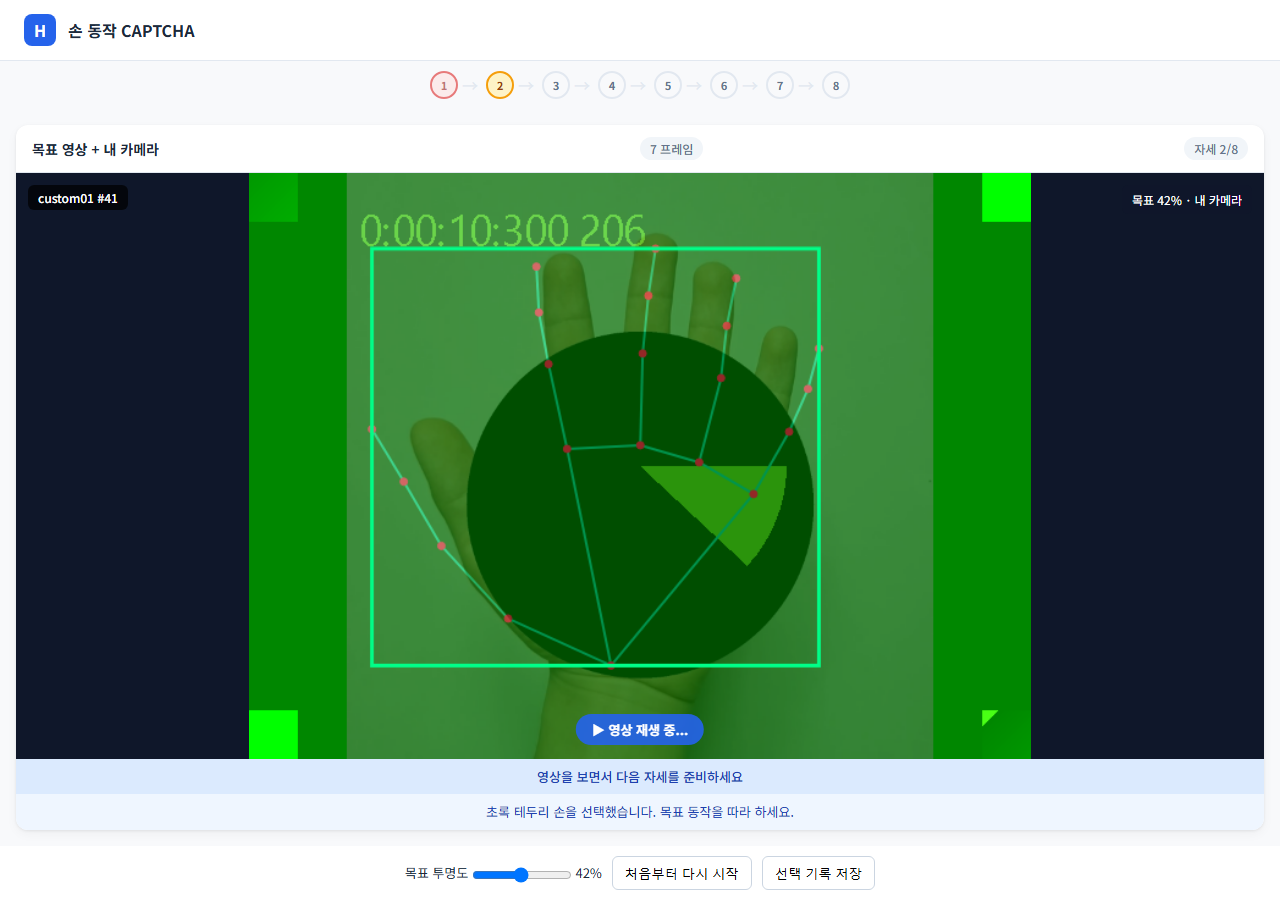
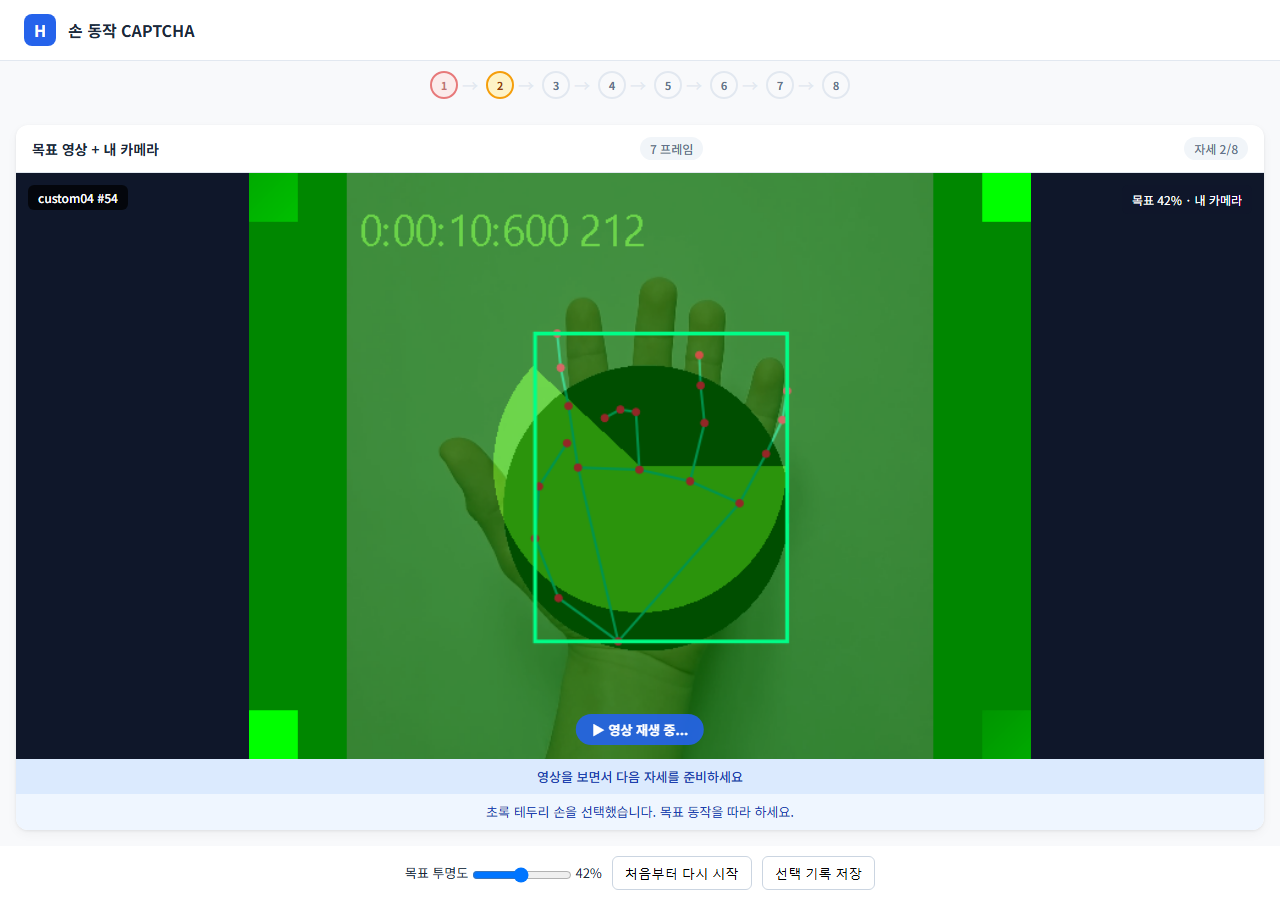
Keep masked target visible and automatically restart after hand absence

diff --git a/experiments/prod_usability/app.js b/experiments/prod_usability/app.js
@@ -1,8 +1,9 @@
 'use strict';
 let runInvalidated=false,runFinished=false,saveableResult=null;
+let attemptEpoch=0,restartNoticeUntil=0;
 const selectionEvents=[];
 const selector=new UsabilitySelection.Selector();
-const nativeResults=onRes,nativeStart=startRealChallenge,nativeResult=showResult;
+const nativeResults=onRes,nativeStart=startRealChallenge,nativeResult=showResult,nativeKeyframe=showKeyframeImage;
 const cameraArea=document.querySelector('.camera-area');
 const panel=cameraArea.closest('.trial-panel');
 panel.querySelector('.panel-title').textContent='목표 영상 + 내 카메라';
@@ -30,10 +31,26 @@ function clearAttempt(){
 }
 function invalidateAttempt(reason){
   if(runInvalidated||runFinished)return;
+  if(reason==='tracking_timeout'||reason==='ambiguous_crossing'){restartForHand(reason);return;}
   recordSelection(reason);runInvalidated=true;clearAttempt();phase='invalidated';
   if(animId)cancelAnimationFrame(animId);if(camStream)camStream.getTracks().forEach(t=>t.stop());
   hint.textContent='선택한 손을 잃었거나 구분하기 어렵습니다. 현재 시도를 폐기했습니다. 처음부터 다시 시작해 주세요.';
   setS('waiting','선택 해제 · 이전 관문과 기록 초기화 완료');updateMatchIndicator('waiting','처음부터 다시 시작해 주세요');
+}
+function restartForHand(reason){
+  recordSelection(reason);attemptEpoch++;
+  clearAttempt();selector.reset();displayedHand=null;previousReason=null;lastCallback=null;
+  saveableResult=null;saveButton.disabled=true;sessionStart=performance.now();phase='detecting_hand';
+  targetFrame.width=0;targetPending=false;rv.oncanplay=null;rv.removeAttribute('src');rv.load();
+  rv.style.display='none';document.getElementById('kfProgress').innerHTML='';
+  document.getElementById('kfLabel').textContent='손 선택 대기';document.getElementById('kfInfo').textContent='';
+  document.getElementById('frameCounter').textContent='0 프레임';
+  restartNoticeUntil=performance.now()+4000;
+  const notice=reason==='ambiguous_crossing'?'선택한 손을 구분하기 어려워 재시작합니다.':'손이 1.5초 이상 이탈해 재시작합니다.';
+  hint.textContent=notice+' 손 전체를 화면 중앙에 보여 주세요.';
+  setS('waiting',notice+' 손을 보여 주세요.');updateMatchIndicator('waiting','손을 보여 주세요');
+  // Keep the original camera/model loop running; the next packet begins fresh acquisition.
+  paintComposite();
 }
 function showAssetError(error){
   console.error(error);document.getElementById('loadingOverlay').classList.add('hidden');
@@ -51,11 +68,25 @@ function drawContained(source,alpha,mirror){
 }
 let previousReason=null,lastCallback=null;
 const cameraBase=document.createElement('canvas');
+const targetFrame=document.createElement('canvas');
+let targetPending=false,targetExpectedTime=0,targetFrameMirror=false;
+function rememberTarget(){
+  if(rv.readyState<2||rv.seeking||rv.style.display==='none')return;
+  if(targetPending&&Math.abs(rv.currentTime-targetExpectedTime)>.08)return;
+  targetPending=false;
+  if(targetFrame.width!==rv.videoWidth||targetFrame.height!==rv.videoHeight){targetFrame.width=rv.videoWidth;targetFrame.height=rv.videoHeight;}
+  targetFrame.getContext('2d').drawImage(rv,0,0);targetFrameMirror=rv.style.transform==='scaleX(-1)';
+}
+showKeyframeImage=function(index){
+  rememberTarget();targetPending=true;targetExpectedTime=keyframes[index].time;
+  nativeKeyframe(index);
+};
 let displayedHand=null;
 function paintComposite(){
   if(!cameraBase.width||!cameraBase.height)return;
   ctx.clearRect(0,0,cc.width,cc.height);ctx.drawImage(cameraBase,0,0);
-  if(rv.style.display!=='none'&&rv.readyState>=2)drawContained(rv,Number(opacity.value)/100,Boolean(keyframes[kfIdx]?.mirror));
+  rememberTarget();
+  if(targetFrame.width)drawContained(targetFrame,Number(opacity.value)/100,targetFrameMirror);
   if(displayedHand){
     const b=displayedHand.box;const track=camStream?.getVideoTracks()[0],settings=track?.getSettings()||{};
     const front=settings.facingMode==='user'||track?.label.toLowerCase().includes('front');
@@ -83,7 +114,7 @@ onRes=function(result){
   displayedHand=hand;
   if(cameraBase.width!==cc.width||cameraBase.height!==cc.height){cameraBase.width=cc.width;cameraBase.height=cc.height;}
   cameraBase.getContext('2d').drawImage(cc,0,0);
-  hint.textContent=hand?'초록 테두리 손을 선택했습니다. 목표 동작을 따라 하세요.':chosen.reason==='similar_sizes'?'손 하나를 다른 손보다 더 가까이 보여 주세요.':chosen.reason==='missing_or_small'?'선택한 손을 다시 크게 보여 주세요. 누락은 정상 관측으로 사용하지 않습니다.':chosen.state==='stabilizing'?'큰 손을 잠시 안정적으로 유지해 주세요.':'손 전체를 조금 더 가까이 보여 주세요.';
+  if(hand||now>=restartNoticeUntil)hint.textContent=hand?'초록 테두리 손을 선택했습니다. 목표 동작을 따라 하세요.':chosen.reason==='similar_sizes'?'손 하나를 다른 손보다 더 가까이 보여 주세요.':chosen.reason==='missing_or_small'?'선택한 손을 다시 크게 보여 주세요. 1.5초 이상 이탈하면 자동 재시작합니다.':chosen.state==='stabilizing'?'큰 손을 잠시 안정적으로 유지해 주세요.':'손 전체를 조금 더 가까이 보여 주세요.';
   // Render only; inference always receives cv, never this composite.
   paintComposite();
 };

diff --git a/experiments/prod_usability/index.html b/experiments/prod_usability/index.html
@@ -394,6 +394,7 @@ function stopGhostLoop(){
 // to either hand: clips of the opposite hand get mirrored (video display AND
 // landmark data, see getBaseFromLandmarkData) rather than being excluded.
 async function genSequence(){
+    const sequenceEpoch=attemptEpoch;
     const handLabel = selectedHand === 'left' ? 'Left' : 'Right';
     const candidates = poolManifest && poolManifest.clips || [];
     if(candidates.length < 2){
@@ -404,7 +405,7 @@ async function genSequence(){
     // manifest에 있어도 landmarks 파일이 서버에 없는(404) 클립이 있을 수 있다.
     // 고정된 2개를 뽑아 실패 시 그대로 죽는 대신, 셔플된 목록을 순회하며
     // 실제로 로드에 성공한 클립 2개를 채울 때까지 시도한다.
-    keyframes = [];
+    let nextKeyframes = [];
     let usedClips = 0;
     for(const clip of shuffled){
         if(usedClips >= 2) break;
@@ -412,14 +413,17 @@ async function genSequence(){
         let d;
         try{ d = await loadClipLandmarks(clip); }
         catch(e){ console.error(`clip ${clip.clip_id}: landmarks load failed, skipping`, e); continue; }
+        if(sequenceEpoch!==attemptEpoch || runInvalidated)return;
         const {frames: baseLm, origIdx} = getBaseFromLandmarkData(d, mirror);
         if(!baseLm || baseLm.length === 0) continue;
         const info = getInfoFromLandmarkData(d);
         const kfIdxs = findKeyframes(baseLm);
-        for(const fi of kfIdxs) keyframes.push({clip, mirror, frameIdx:fi, time:origIdx[fi]/info.fps, baseLm:baseLm[fi], allBaseLm:baseLm, fps:info.fps, width:info.width, height:info.height});
+        for(const fi of kfIdxs) nextKeyframes.push({clip, mirror, frameIdx:fi, time:origIdx[fi]/info.fps, baseLm:baseLm[fi], allBaseLm:baseLm, fps:info.fps, width:info.width, height:info.height});
         usedClips++;
     }
     if(usedClips < 2) console.error(`Only ${usedClips} usable clips loaded (need 2)`);
+    if(sequenceEpoch!==attemptEpoch || runInvalidated)return;
+    keyframes=nextKeyframes;
     const prog = document.getElementById('kfProgress');
     prog.innerHTML = keyframes.map((_,i)=>{
         const arrow = i<keyframes.length-1 ? '<span class="kf-arrow">→</span>' : '';
@@ -579,6 +583,7 @@ function onFirstKeyframeMatched(){
 }
 
 function beginNextTransition(){
+    const transitionEpoch=attemptEpoch;
     phase = 'recording';
     videoPlaying = false;
     recStart = performance.now();
@@ -614,7 +619,7 @@ function beginNextTransition(){
         // "영상 재생 중..."에서 세션이 영구히 멈추는 것을 막는다.
         const playDeadline = performance.now() + (stopTime - fromKf.time)*1000 + 3000;
         const checkLoop = () => {
-            if(runInvalidated || runFinished) return;
+            if(runInvalidated || runFinished || transitionEpoch!==attemptEpoch) return;
             if(rv.currentTime >= stopTime - 0.05 || rv.error || performance.now() > playDeadline){
                 // 영상을 멈추고 그 프레임을 그대로 목표 자세로 보여준다 (캔버스
                 // 스냅샷 없음). 사용자는 재생 중에도 실시간으로 따라하므로
@@ -647,7 +652,7 @@ function onTransitionMatched(){
         phase = 'done';
         updateMatchIndicator('matched', '완료');
         setS('complete', '✅ 모든 동작이 완료되었습니다!');
-        setTimeout(() => { if(!runInvalidated) showResult(); }, 500);
+        const completionEpoch=attemptEpoch; setTimeout(() => { if(!runInvalidated && completionEpoch===attemptEpoch) showResult(); }, 500);
     } else {
         beginNextTransition();
     }
@@ -670,7 +675,7 @@ function handleHandednessSample(rawLabel, rawScore){
         if(allSame && avgScore > HANDEDNESS_MIN_SCORE){
             selectedHand = handednessBuffer[0].side;
             handednessBuffer = [];
-            genSequence().then(() => { if(!runInvalidated) startRealChallenge(); else clearAttempt(); }).catch(showAssetError);
+            const loadEpoch=attemptEpoch; genSequence().then(() => { if(loadEpoch===attemptEpoch && !runInvalidated) startRealChallenge(); }).catch(error => { if(loadEpoch===attemptEpoch)showAssetError(error); });
         }
         // else: buffer keeps rolling via shift() above — no numeric/retry feedback shown (§7.4)
     }
@@ -892,7 +897,7 @@ function showResult(){
     if(camStream) camStream.getTracks().forEach(t => t.stop());
 
     const result = {
-        experimentInfo: {participantId: pid, selectedHand, timestamp: Date.now(), version: 'prod_usability_v1'},
+        experimentInfo: {participantId: pid, selectedHand, timestamp: Date.now(), version: 'prod_usability_v2'},
         keyframes: keyframes.map(kf => ({clip: kf.clip.clip_id, frameIdx: kf.frameIdx})),
         segments: segments.map(seg => ({
             fromKf: seg.fromKf, toKf: seg.toKf,

diff --git a/experiments/prod_usability/selector.js b/experiments/prod_usability/selector.js
@@ -2,7 +2,7 @@
 (function(root){
   'use strict';
   const DEFAULTS = Object.freeze({minArea:0.035, exitArea:0.024, stableMs:350,
-    missingMs:450, tieRatio:1.12, maxTravel:0.65, maxScaleRatio:2.4, ambiguityMargin:0.12});
+    missingMs:1500, tieRatio:1.12, maxTravel:0.65, maxScaleRatio:2.4, ambiguityMargin:0.12});
   function candidate(points,index){
     if(!Array.isArray(points)||points.length!==21||points.some(p=>!p||
       ![p.x,p.y,p.z].every(Number.isFinite)||p.x<0||p.x>1||p.y<0||p.y>1))return null;

diff --git a/experiments/prod_usability/README.md b/experiments/prod_usability/README.md
@@ -23,7 +23,7 @@ HTML 재생성은 `node .\experiments\prod_usability\build.cjs`입니다. 실행
 
 1. **0–3분: 혼자 따라 하기.** 손을 중앙에 크게 넣고 잠시 유지하세요. 초록 테두리가 생기면 겹쳐 보이는 가림 목표를 따라 마지막 결과까지 진행하고 **결과 JSON 저장**을 누르세요. 목표·내 손이 동시에 구별되는지, 좌우 방향이 편한지 확인하세요. 필요하면 목표 투명도만 조절하세요.
 2. **3–4분: 여러 손 확인.** 다시 시작하고, 작은 손과 큰 손을 함께 넣으세요. 충분히 큰 손이 안정 선택되는지 보세요. 선택 후 다른 더 큰 손을 넣어도 초록 테두리가 기존 손을 따라야 합니다. 크기가 비슷하면 손 하나를 더 가까이 보여 달라는 안내가 나와야 합니다.
-3. **4–5분: 소실·재시작.** 선택 손을 약 1초 빼세요. 시도 폐기와 기록 초기화 안내가 나와야 합니다. **처음부터 다시 시작** 후 새 손을 넣으면 첫 자세부터 시작해야 합니다. 불편한 장면과 투명도 값을 알려 주세요. 필요하면 **선택 기록 저장**을 함께 보관하세요.
+3. **4–5분: 소실·재시작.** 선택 손을 약 2초 빼세요. “손이 1.5초 이상 이탈해 재시작합니다” 안내와 함께 자동으로 손 선택 대기로 돌아가야 합니다. 버튼을 누르지 않고 손을 다시 넣으면 첫 자세부터 시작해야 합니다. 불편한 장면과 투명도 값을 알려 주세요. 필요하면 **선택 기록 저장**을 함께 보관하세요.
 
 ## 기준과 자산
 
@@ -42,9 +42,11 @@ HTML 재생성은 `node .\experiments\prod_usability\build.cjs`입니다. 실행
 - 원본 카메라의 셀피 미러 판정(장치 facingMode/라벨)을 유지합니다. 목표는 기존 좌우손 문제 규칙에 따라 미러합니다. 시각 합성을 채점 좌표에 추가 적용하지 않습니다. 장치가 facingMode를 보고하지 않는 웹캠은 미러가 적용되지 않을 수 있으므로 첫 실기에서 확인해야 합니다.
 - 카메라 프레임 위에 **기존 가림 영상만** 기본 42% 투명도로 중앙 contain 합성합니다. 두 영상의 종횡비를 유지하고 잘라내거나 늘리지 않습니다. 목표 투명도는 화면 슬라이더 20–65%입니다. 목표의 회색 배경·검은 가림은 제거하지 않고 전체를 알파 합성하므로 카메라가 최소 35% 남습니다. 가림 속 목표 손을 추가로 노출하는 고스트 폴백은 껐습니다. 배경 겹침으로 대비가 낮아질 수 있습니다.
 - 최대 4개 검출 손 중 유효한 21점·유한 x/y/z·프레임 내부 후보를 사용합니다. 가까움의 대용값은 **정규화 bbox 면적 `(maxX-minX)*(maxY-minY)`**이며 실제 거리나 신원은 보장하지 않습니다. 상대 landmark z를 거리로 쓰지 않습니다. 자세에 따른 면적 변화도 있습니다.
-- 설정은 `selector.js`의 `DEFAULTS`: 진입 면적 **0.035 (프레임 면적의 3.5%)**, 유지 면적 **0.024 (2.4%)**, 초기 안정화 **350ms**, 유사 크기 비율 **1.12**, 누락 유예 **450ms**입니다. 모두 임시 개발값이며 사용자의 실기 피드백으로 조정합니다.
+- 설정은 `selector.js`의 `DEFAULTS`: 진입 면적 **0.035 (프레임 면적의 3.5%)**, 유지 면적 **0.024 (2.4%)**, 초기 안정화 **350ms**, 유사 크기 비율 **1.12**, 누락 유예 **1500ms**입니다. 모두 임시 개발값이며 사용자의 실기 피드백으로 조정합니다.
 - 반환 인덱스/손 라벨로 추적하지 않고 중심 이동·면적 비율·정규화 형태의 연속성으로 기존 손을 유지합니다. 큰 다른 손으로 자동 전환하지 않습니다. 크기 동률은 대기하고 교차 모호성은 폐기합니다. 비슷한 손이 같은 위치를 차지하는 경우를 완전히 식별할 수 없습니다.
-- 짧은 누락은 `lm:null`로 기존 누락 기록을 남기며 hold를 끊습니다. 과거 좌표로 채우지 않습니다. 450ms 초과 소실·추론 중단·교차 모호성은 시도를 무효화하고 hold·관문·세그먼트·sessionLog·좌우손 버퍼를 초기화합니다. 새 손은 **처음부터 다시 시작**으로 페이지/모델/문제를 새로 시작한 뒤 선택합니다. 200ms 이상 콜백 간격에서는 관문 hold를 초기화합니다. 느린 장치에서는 이 보수적 정책이 자주 재시작을 요구할 수 있습니다.
+- 짧은 누락은 `lm:null`로 기존 누락 기록을 남기며 hold를 끊습니다. 과거 좌표로 채우지 않습니다. 1500ms 초과 소실은 현재 시도를 폐기하고 hold·관문·세그먼트·sessionLog·좌우손 버퍼를 초기화한 뒤 카메라/모델을 유지하며 자동으로 손 선택 대기로 돌아갑니다. 손 교차 모호성도 즉시 새 시도로 돌아갑니다. 추론/자산 오류는 안내 후 수동 재시작이 필요합니다. 새 손이 안정 선택되면 새 문제를 처음부터 시작합니다. 200ms 이상 콜백 간격에서는 관문 hold를 초기화합니다.
+
+다음 목표 영상의 로딩·seek 중에는 이전 가림 프레임과 그 미러 방향을 유지하고, 새 영상의 해당 프레임이 준비되면 교체합니다.
 
 ## 검증
 
@@ -53,3 +55,8 @@ HTML 재생성은 `node .\experiments\prod_usability\build.cjs`입니다. 실행
 브라우저 검사는 `browser-check.cjs`로 실제 페이지·모델·문제 영상 로딩, 합성 관측으로 관문→수행→점수→결과 JSON 다운로드, 선택 손 데이터 연결과 재시작을 확인합니다. QA용 의존성은 실행본 외부 `usability/qa`에 설치했습니다. 재구성 시 `usability` 폴더에서 `npm.cmd install --prefix qa --cache qa/npm-cache playwright-core@1.65.1 --ignore-scripts --no-audit --no-fund`, 서버 실행 후 handcaptcha 루트에서 `node .\experiments\prod_usability\browser-check.cjs`를 실행합니다. 설치 버전은 QA package-lock을 기준으로 합니다. QA 브라우저는 Chrome headless에서 GPU를 끄고 합성 카메라를 사용합니다. `preview.png` 역시 합성 입력 화면입니다.
 
 실제 카메라를 사용하는 사람의 손 선택·겹침 가독성·성공/불편 정도는 확인 대기입니다. 합성 좌표로 산출한 점수는 사용자 성능이나 보안 성능의 증거가 아닙니다. 최종 자동/브라우저 결과는 `VALIDATION.md`에 기록합니다.
+
+## 버전 보관
+
+- 첫 전달 버전: 로컬 Git 태그 `usability-v1-20261118`. 별도 ZIP은 `usability/backups/prod_usability_v1_20261118.zip`이며 실행 서버에 노출하지 않습니다.
+- 이번 피드백 반영본: 로컬 Git 태그 `usability-v2-20261118`. 같은 기본 URL에서 실행합니다. 원격 push/운영 배포는 하지 않았습니다.

diff --git a/experiments/prod_usability/VALIDATION.md b/experiments/prod_usability/VALIDATION.md
@@ -31,6 +31,15 @@ Windows Chrome headless, viewport 1280×900 및 390×844, Playwright Core 1.65.1
 - 혼자 손을 넣어 목표 따라 하기와 전체 완료/저장.
 - 실제 크기가 다른 여러 손·순서 변경·크기 동률·교차 중 선택 유지/무효화.
 - 실제 소실·재진입과 새 시도 시작.
-- 장치별 셀피 미러, 가림 배경 대비, 손을 움직일 때 450ms 유예/350ms 안정화의 적절성.
+- 장치별 셀피 미러, 가림 배경 대비, 손을 움직일 때 1500ms 유예/350ms 안정화의 적절성.
 
 화면상 크기는 실거리·신원 확인이 아니다. 서로 비슷한 손의 동일 위치 대체는 단안 연속성 휴리스틱만으로 완전히 구분할 수 없다. 카메라/모델 하드웨어별 속도와 실제 사용자 편의성 효과는 아직 검증하지 않았다.
+
+## 사용자 피드백 반영본 v2
+
+- 자동 검사 8/8 및 기존 전체 CAPTCHA 흐름·결과 JSON 저장 통과.
+- 다음 MP4 요청을 500ms 지연시켜 이전 가림 프레임이 byte 동일하게 유지되고, 새 영상의 디코딩/seek 완료 후 교체되는 것을 확인.
+- 1.5초 손 이탈 후 카메라 트랙이 live인 채 자동으로 `detecting_hand`로 복귀하고, 모든 이전 관문/기록 버퍼가 비워지는 것을 확인.
+- “손이 1.5초 이상 이탈해 재시작합니다” 안내 표시, 돌아온 손으로 페이지 새로고침 없이 새 문제 시작 확인.
+- 이전 시도의 지연된 비동기 문제 로딩이 재시작한 상태를 덮어쓰지 않는 것을 확인.
+- 브라우저 JavaScript 예외 0. 실제 사람 손의 편의성은 사용자 확인 대기.
